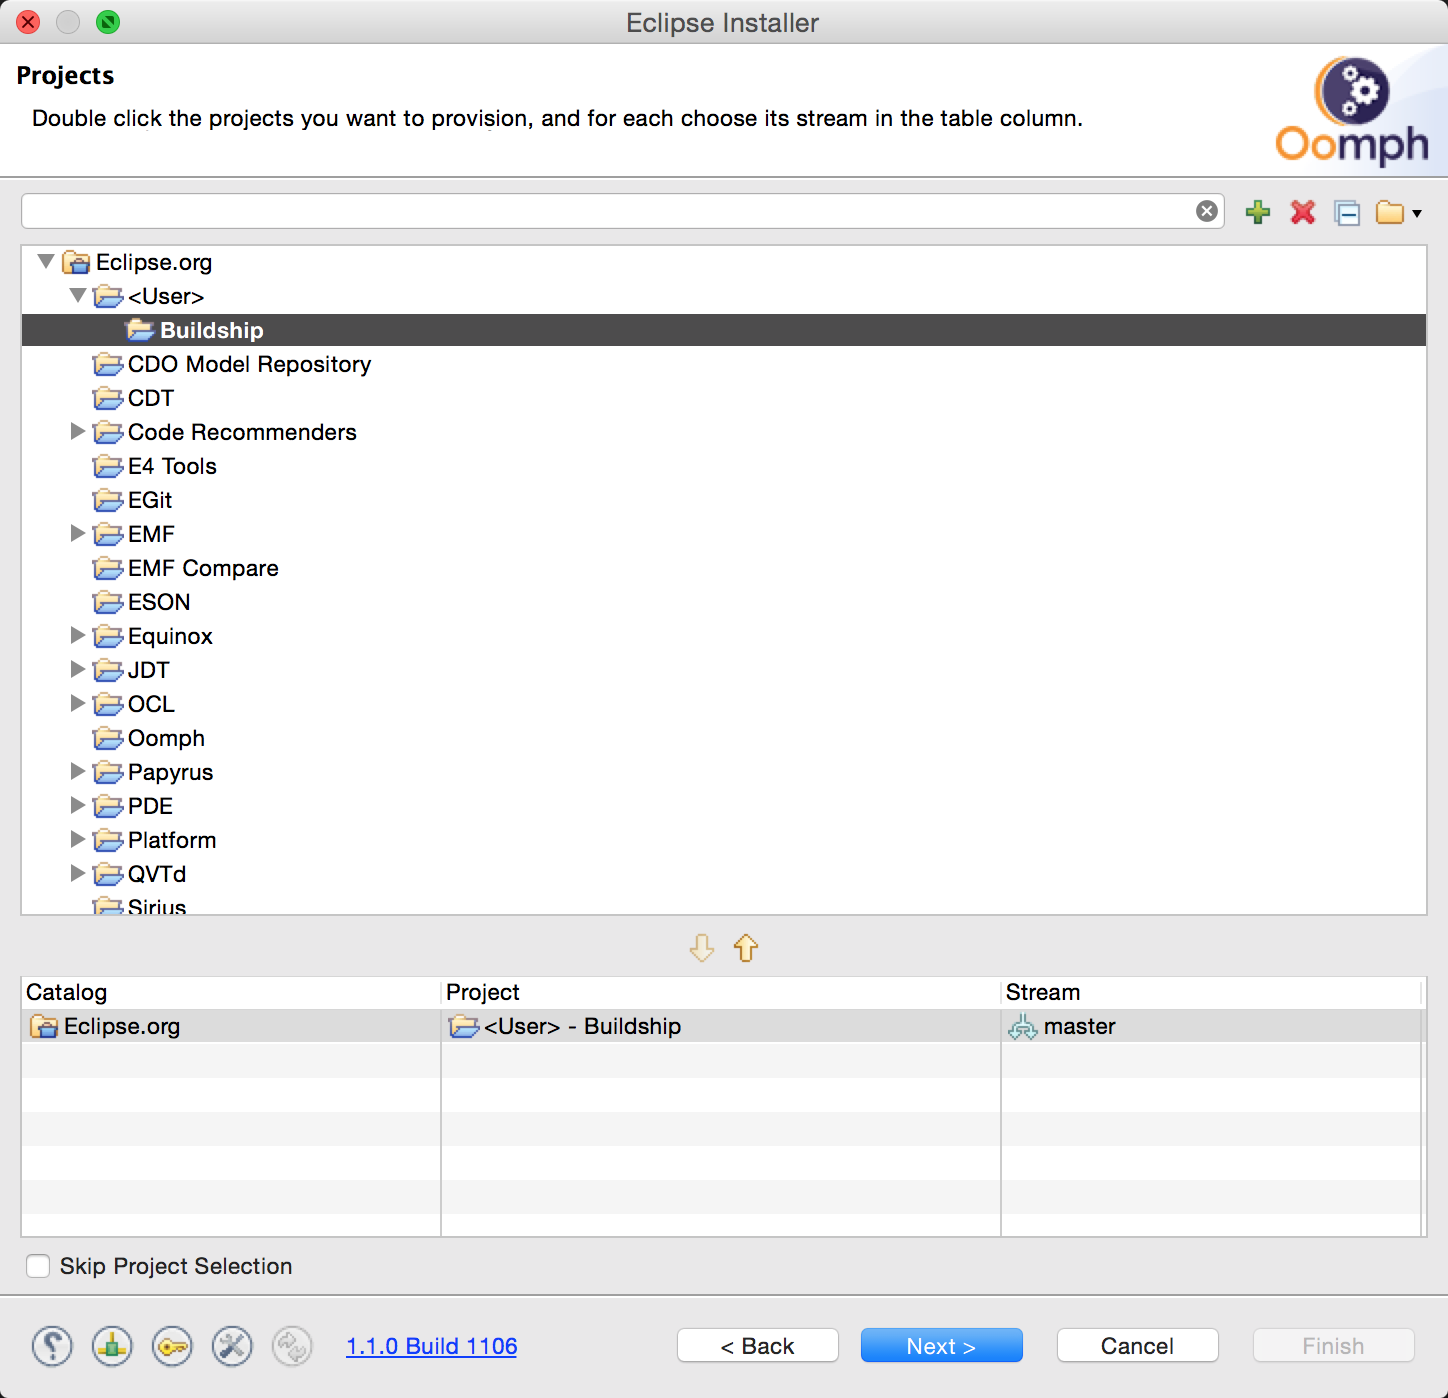
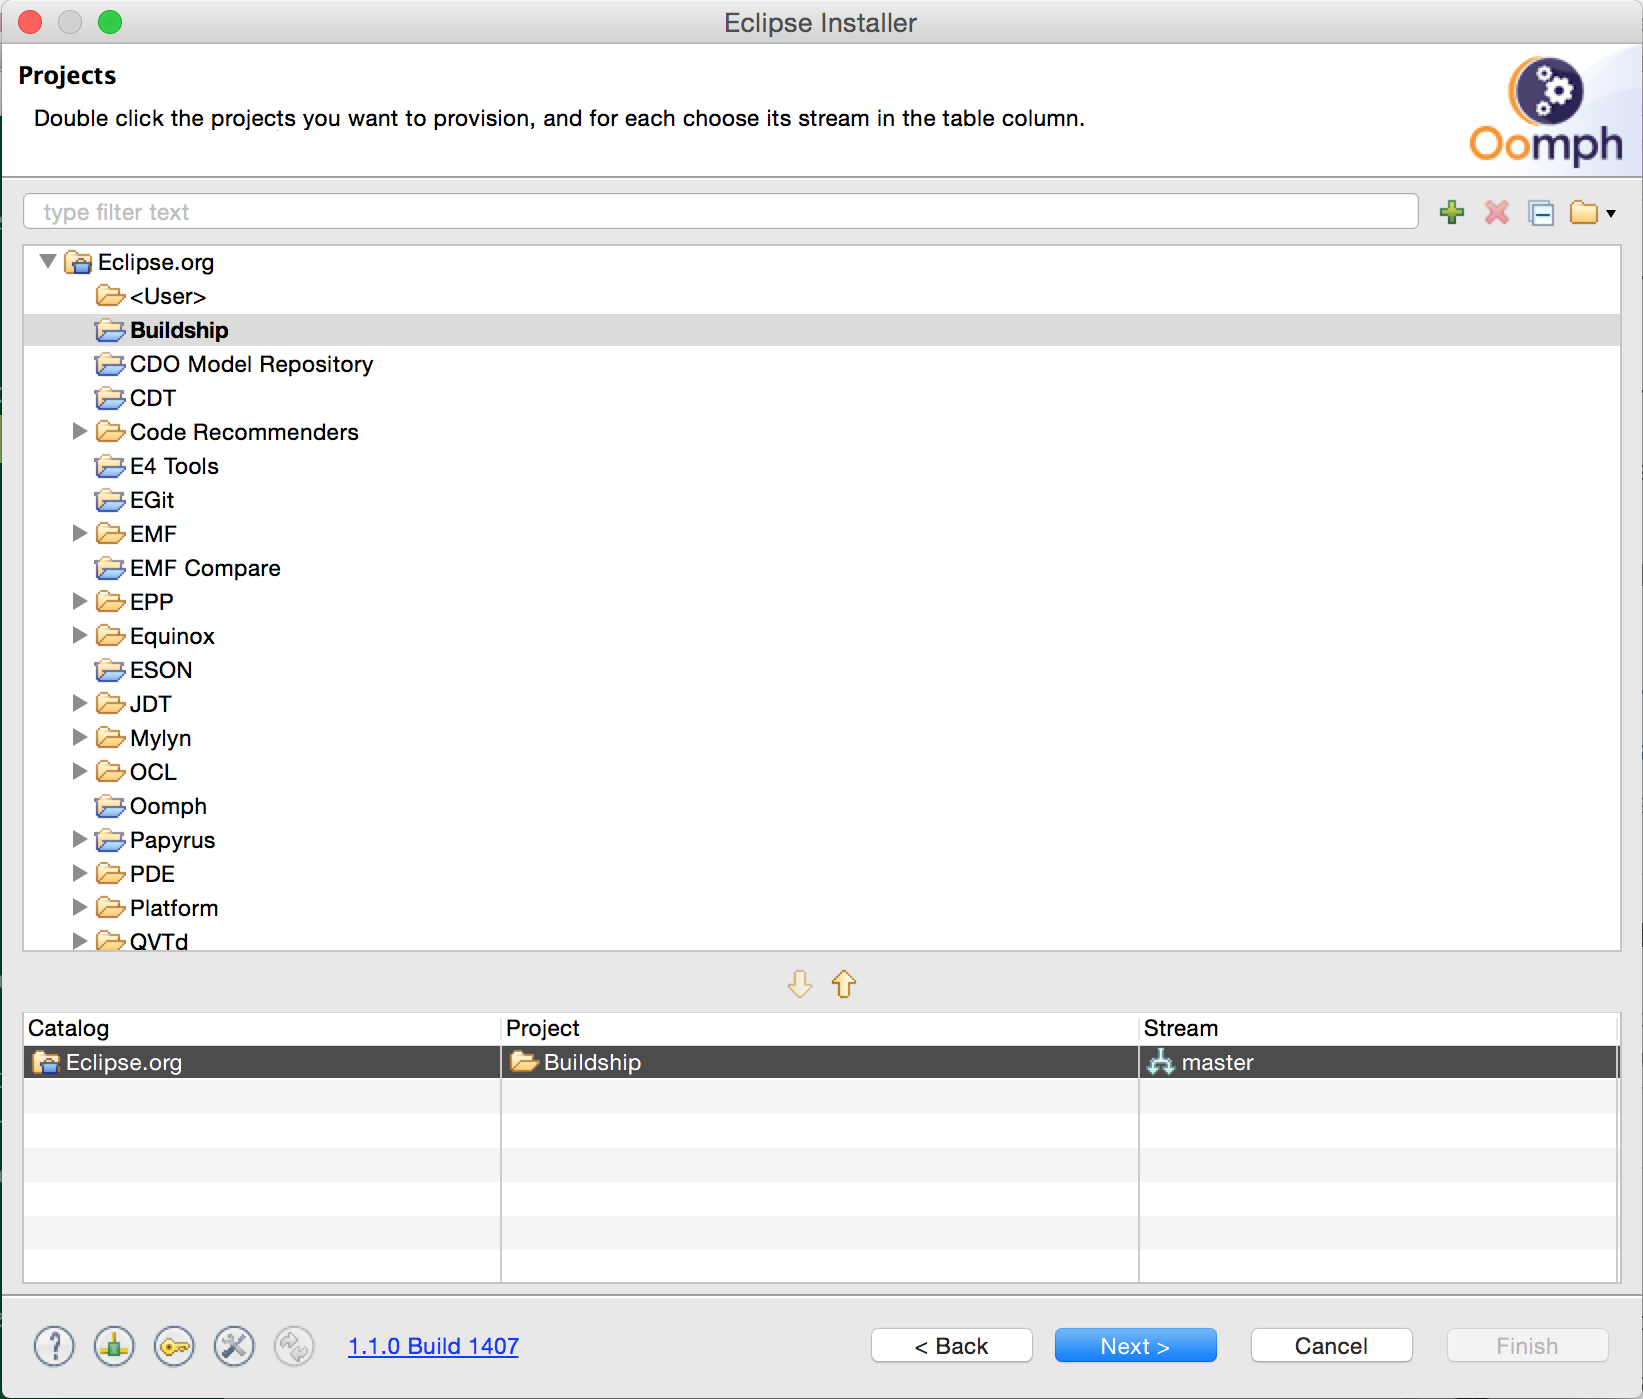
Update development documentation
This reverts commit 15ecf2a3545f2c37c8625d842b5616d0dca6875a.

diff --git a/docs/development/Setup.md b/docs/development/Setup.md
@@ -29,15 +29,9 @@ set of plugins for the IDE. Check if the _VM_ and the _Bundle pool_ have proper 
 
 ### 2. Configure the Buildship model
 
-In a web browser, download the Oomph model for Buildship from the [project's git repository](https://raw.githubusercontent.com/eclipse/buildship/master/buildship.setup). Go back
-to Oomph, click on the plus sign at the top of the form, and select the downloaded Oomph model from your local file system. Once the model is applied successfully, double-click
-on the _Buildship_ node. If everything goes well, you should see the screen below. Then click _Next_.
-
-Note that we plan to move the model into Oomph's central product catalog. This will omit the step of downloading the model manually the users of the model will automatically
-receive the updates every time the model is changed.
+The Buildship setup model is available in the Oomph project catalog under the GitHub projects, just select it and hit next.
 
 ![Buildship setup model added](oomph/install-2.png)
-
 
 ### 3. Specify installation properties
 
